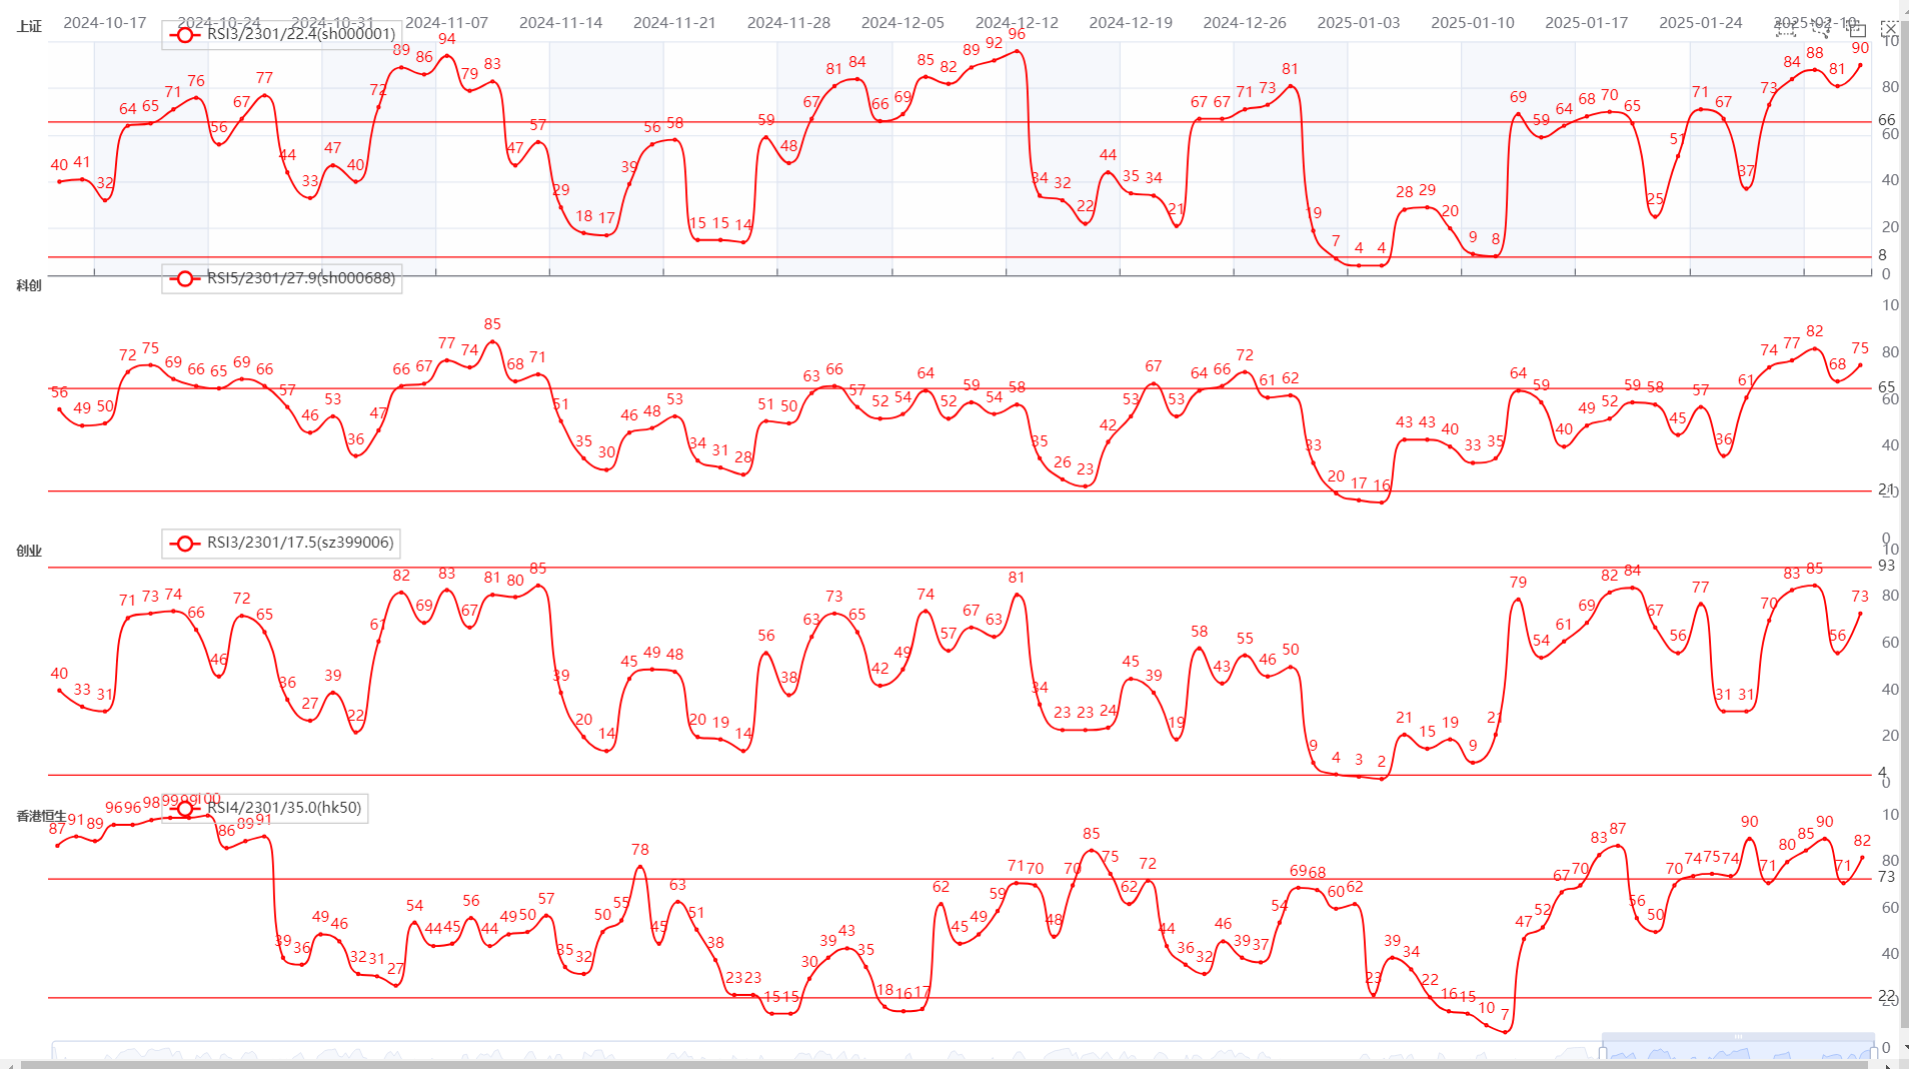
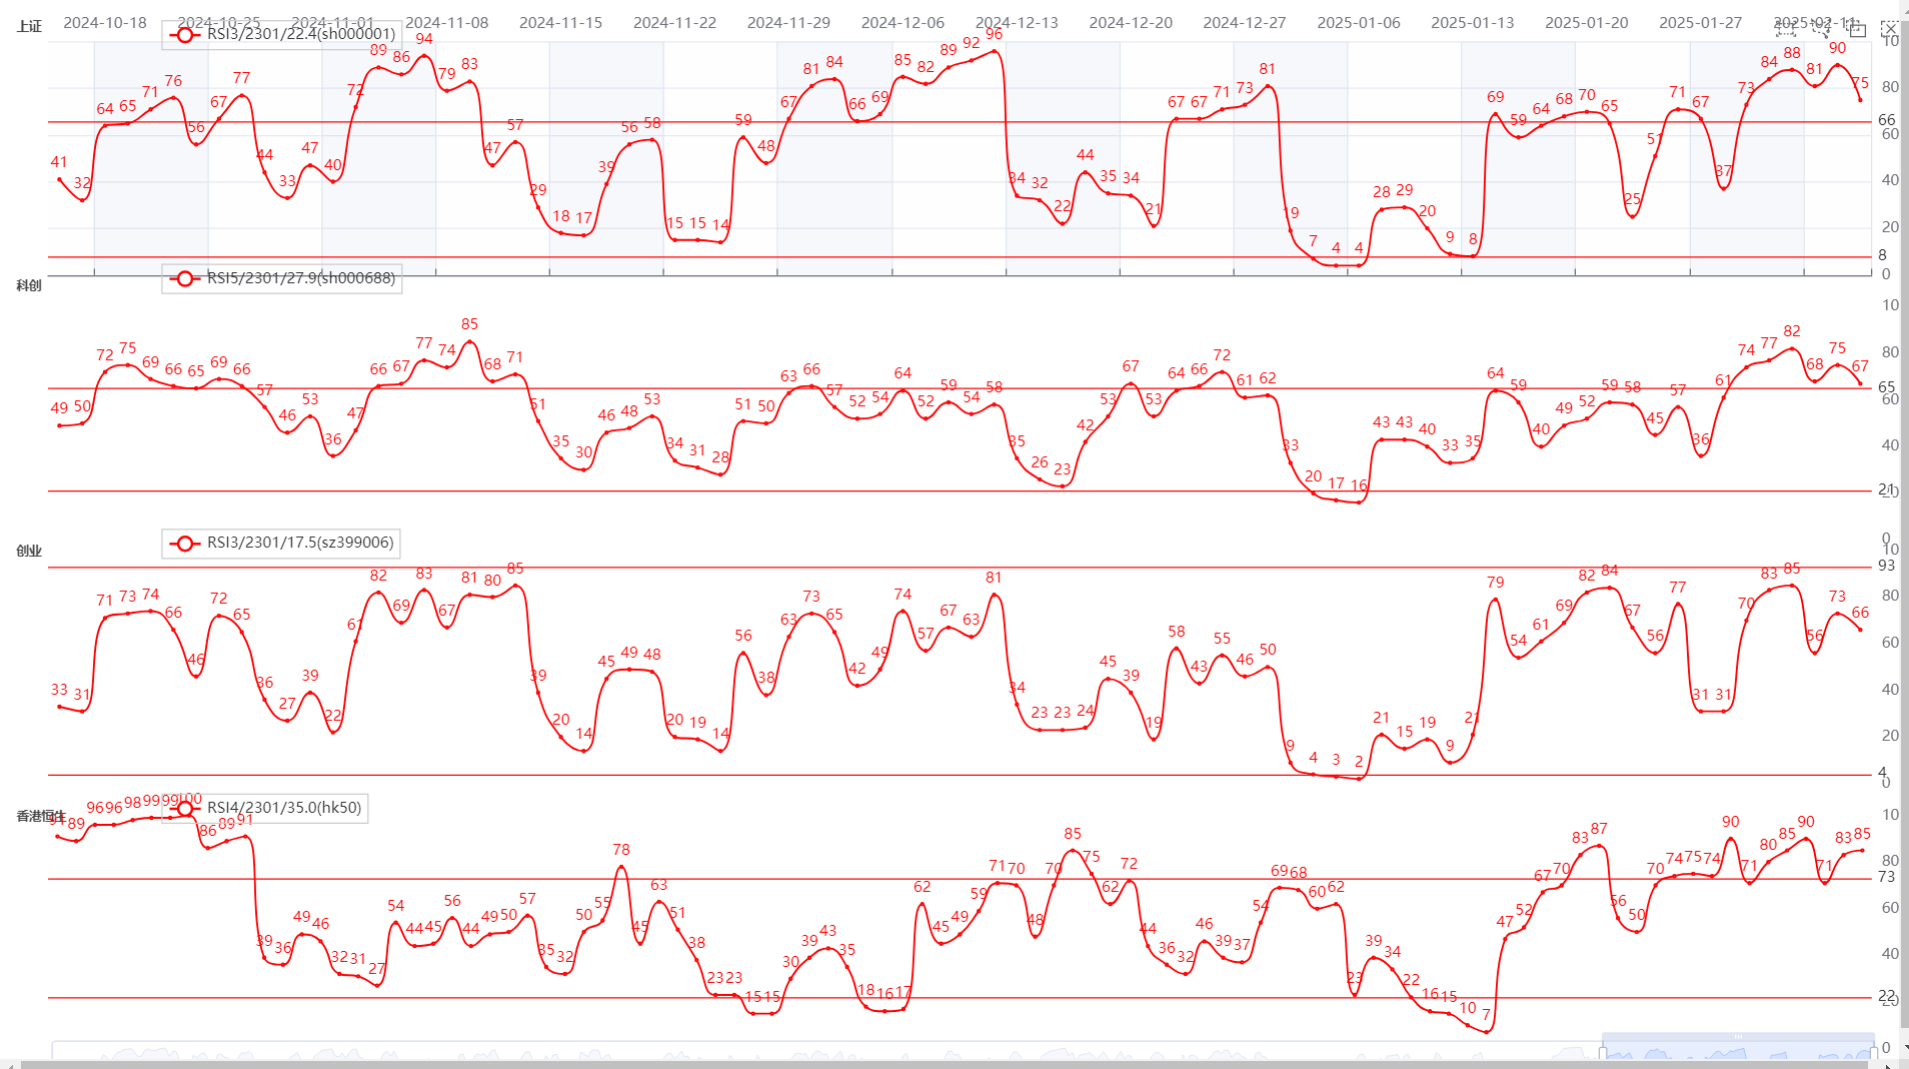
20250213

diff --git a/index_cn.html b/index_cn.html
@@ -13,11 +13,11 @@
     </style>
 </head>
 <body onresize="resizeFresh()"  >
-    <div id="3b047cd50d83416b92fa3ddf6e15eaa8" class="chart-container" style="width:100%; height:100%; "></div>
+    <div id="32c827f232904c7cb361ac95e9b788a9" class="chart-container" style="width:100%; height:100%; "></div>
     <script>
-        var chart_3b047cd50d83416b92fa3ddf6e15eaa8 = echarts.init(
-            document.getElementById('3b047cd50d83416b92fa3ddf6e15eaa8'), 'white', {renderer: 'canvas'});
-        var option_3b047cd50d83416b92fa3ddf6e15eaa8 = {
+        var chart_32c827f232904c7cb361ac95e9b788a9 = echarts.init(
+            document.getElementById('32c827f232904c7cb361ac95e9b788a9'), 'white', {renderer: 'canvas'});
+        var option_32c827f232904c7cb361ac95e9b788a9 = {
     "animation": true,
     "animationThreshold": 2000,
     "animationDuration": 1000,
@@ -54,44 +54,40 @@
             "step": false,
             "data": [
                 [
-                    "2022-12-05",
-                    100.0
-                ],
-                [
                     "2022-12-06",
-                    100.0
+                    0.0
                 ],
                 [
                     "2022-12-07",
-                    10.0
+                    0.0
                 ],
                 [
                     "2022-12-08",
-                    8.0
+                    0.0
                 ],
                 [
                     "2022-12-09",
-                    59.0
+                    34.0
                 ],
                 [
                     "2022-12-12",
-                    17.0
+                    14.0
                 ],
                 [
                     "2022-12-13",
-                    16.0
+                    13.0
                 ],
                 [
                     "2022-12-14",
-                    17.0
+                    13.0
                 ],
                 [
                     "2022-12-15",
-                    10.0
+                    9.0
                 ],
                 [
                     "2022-12-16",
-                    10.0
+                    8.0
                 ],
                 [
                     "2022-12-19",
@@ -107,7 +103,7 @@
                 ],
                 [
                     "2022-12-22",
-                    1.0
+                    0.0
                 ],
                 [
                     "2022-12-23",
@@ -2164,6 +2160,10 @@
                 [
                     "2025-02-12",
                     90.0
+                ],
+                [
+                    "2025-02-13",
+                    75.0
                 ]
             ],
             "hoverAnimation": false,
@@ -2234,10 +2234,6 @@
             "step": false,
             "data": [
                 [
-                    "2022-12-05",
-                    0.0
-                ],
-                [
                     "2022-12-06",
                     0.0
                 ],
@@ -2251,27 +2247,27 @@
                 ],
                 [
                     "2022-12-09",
-                    45.0
+                    28.0
                 ],
                 [
                     "2022-12-12",
-                    60.0
+                    42.0
                 ],
                 [
                     "2022-12-13",
-                    22.0
+                    19.0
                 ],
                 [
                     "2022-12-14",
-                    17.0
+                    15.0
                 ],
                 [
                     "2022-12-15",
-                    34.0
+                    31.0
                 ],
                 [
                     "2022-12-16",
-                    22.0
+                    21.0
                 ],
                 [
                     "2022-12-19",
@@ -2283,7 +2279,7 @@
                 ],
                 [
                     "2022-12-21",
-                    8.0
+                    7.0
                 ],
                 [
                     "2022-12-22",
@@ -2295,7 +2291,7 @@
                 ],
                 [
                     "2022-12-26",
-                    48.0
+                    47.0
                 ],
                 [
                     "2022-12-27",
@@ -4344,6 +4340,10 @@
                 [
                     "2025-02-12",
                     75.0
+                ],
+                [
+                    "2025-02-13",
+                    67.0
                 ]
             ],
             "hoverAnimation": false,
@@ -4414,10 +4414,6 @@
             "step": false,
             "data": [
                 [
-                    "2022-12-05",
-                    100.0
-                ],
-                [
                     "2022-12-06",
                     100.0
                 ],
@@ -4427,7 +4423,7 @@
                 ],
                 [
                     "2022-12-08",
-                    94.0
+                    95.0
                 ],
                 [
                     "2022-12-09",
@@ -4435,23 +4431,23 @@
                 ],
                 [
                     "2022-12-12",
-                    52.0
+                    55.0
                 ],
                 [
                     "2022-12-13",
-                    27.0
+                    30.0
                 ],
                 [
                     "2022-12-14",
-                    22.0
+                    24.0
                 ],
                 [
                     "2022-12-15",
-                    62.0
+                    63.0
                 ],
                 [
                     "2022-12-16",
-                    38.0
+                    39.0
                 ],
                 [
                     "2022-12-19",
@@ -4459,7 +4455,7 @@
                 ],
                 [
                     "2022-12-20",
-                    13.0
+                    14.0
                 ],
                 [
                     "2022-12-21",
@@ -4475,7 +4471,7 @@
                 ],
                 [
                     "2022-12-26",
-                    64.0
+                    65.0
                 ],
                 [
                     "2022-12-27",
@@ -6524,6 +6520,10 @@
                 [
                     "2025-02-12",
                     73.0
+                ],
+                [
+                    "2025-02-13",
+                    66.0
                 ]
             ],
             "hoverAnimation": false,
@@ -6594,10 +6594,6 @@
             "step": false,
             "data": [
                 [
-                    "2022-07-06",
-                    100.0
-                ],
-                [
                     "2022-07-07",
                     100.0
                 ],
@@ -6607,27 +6603,27 @@
                 ],
                 [
                     "2022-07-11",
-                    24.0
+                    29.0
                 ],
                 [
                     "2022-07-12",
-                    16.0
+                    20.0
                 ],
                 [
                     "2022-07-13",
-                    15.0
+                    19.0
                 ],
                 [
                     "2022-07-14",
-                    14.0
+                    17.0
                 ],
                 [
                     "2022-07-15",
-                    7.0
+                    9.0
                 ],
                 [
                     "2022-07-18",
-                    49.0
+                    50.0
                 ],
                 [
                     "2022-07-19",
@@ -6639,7 +6635,7 @@
                 ],
                 [
                     "2022-07-21",
-                    38.0
+                    39.0
                 ],
                 [
                     "2022-07-22",
@@ -9155,7 +9151,11 @@
                 ],
                 [
                     "2025-02-12",
-                    82.0
+                    83.0
+                ],
+                [
+                    "2025-02-13",
+                    85.0
                 ]
             ],
             "hoverAnimation": false,
@@ -9380,7 +9380,6 @@
                 }
             },
             "data": [
-                "2022-12-05",
                 "2022-12-06",
                 "2022-12-07",
                 "2022-12-08",
@@ -9907,7 +9906,8 @@
                 "2025-02-07",
                 "2025-02-10",
                 "2025-02-11",
-                "2025-02-12"
+                "2025-02-12",
+                "2025-02-13"
             ]
         },
         {
@@ -9931,7 +9931,6 @@
                 }
             },
             "data": [
-                "2022-12-05",
                 "2022-12-06",
                 "2022-12-07",
                 "2022-12-08",
@@ -10458,7 +10457,8 @@
                 "2025-02-07",
                 "2025-02-10",
                 "2025-02-11",
-                "2025-02-12"
+                "2025-02-12",
+                "2025-02-13"
             ]
         },
         {
@@ -10482,7 +10482,6 @@
                 }
             },
             "data": [
-                "2022-12-05",
                 "2022-12-06",
                 "2022-12-07",
                 "2022-12-08",
@@ -11009,7 +11008,8 @@
                 "2025-02-07",
                 "2025-02-10",
                 "2025-02-11",
-                "2025-02-12"
+                "2025-02-12",
+                "2025-02-13"
             ]
         },
         {
@@ -11033,7 +11033,6 @@
                 }
             },
             "data": [
-                "2022-07-06",
                 "2022-07-07",
                 "2022-07-08",
                 "2022-07-11",
@@ -11673,7 +11672,8 @@
                 "2025-02-07",
                 "2025-02-10",
                 "2025-02-11",
-                "2025-02-12"
+                "2025-02-12",
+                "2025-02-13"
             ]
         }
     ],
@@ -12025,9 +12025,9 @@
         }
     ]
 };
-        chart_3b047cd50d83416b92fa3ddf6e15eaa8.setOption(option_3b047cd50d83416b92fa3ddf6e15eaa8);
+        chart_32c827f232904c7cb361ac95e9b788a9.setOption(option_32c827f232904c7cb361ac95e9b788a9);
             window.addEventListener('resize', function(){
-                chart_3b047cd50d83416b92fa3ddf6e15eaa8.resize();
+                chart_32c827f232904c7cb361ac95e9b788a9.resize();
             })
     </script>
     
